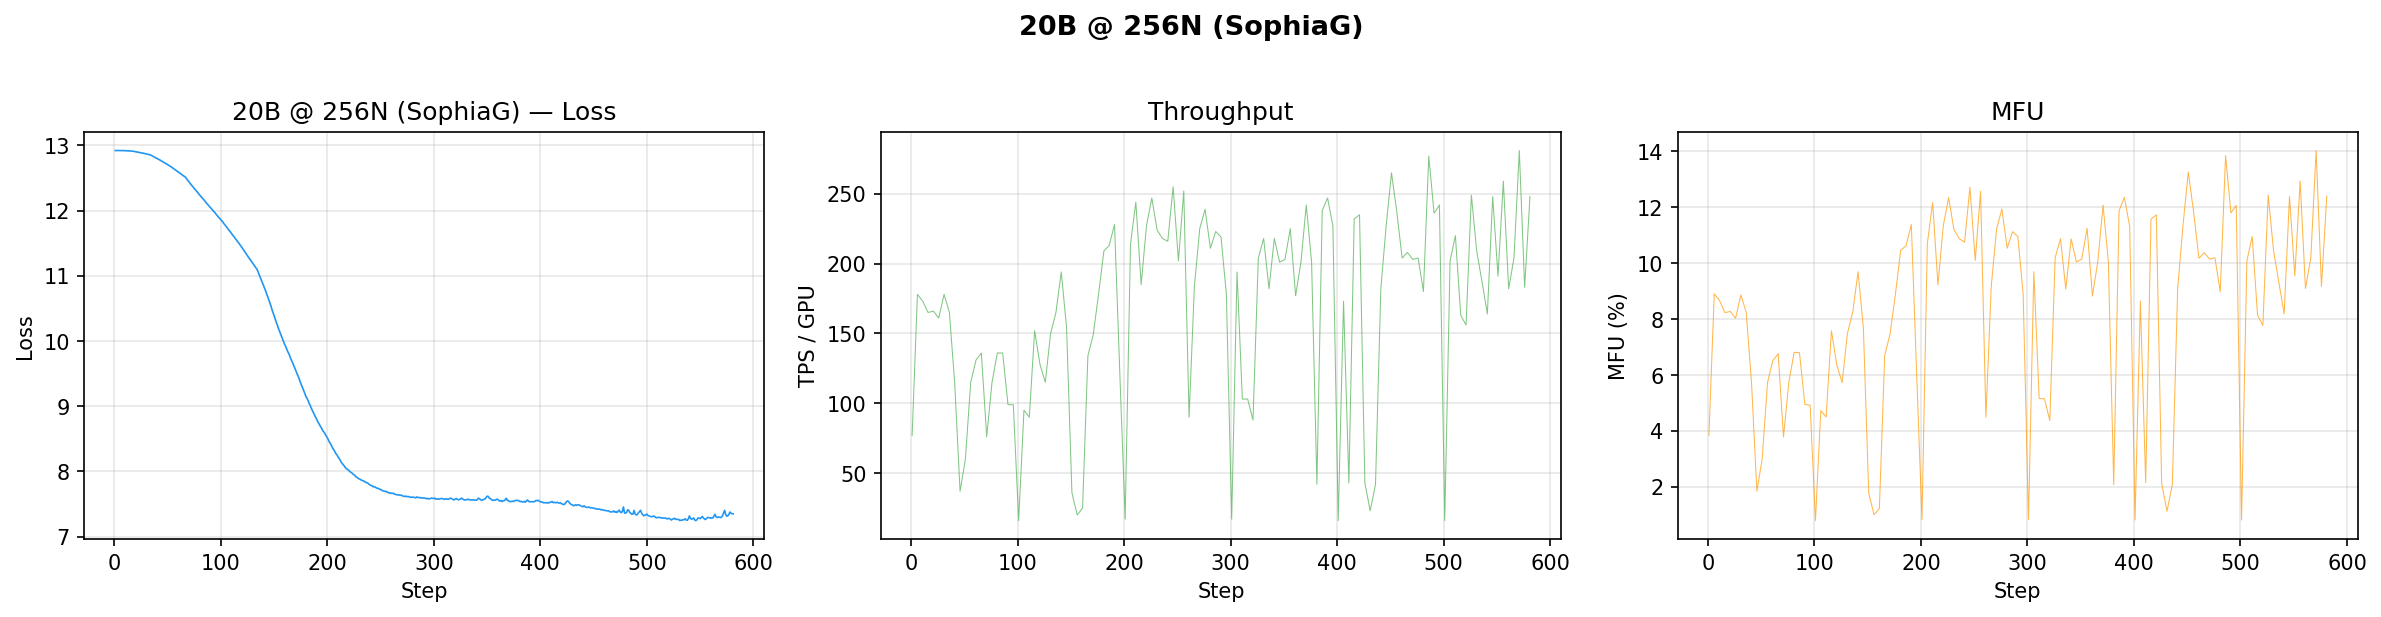
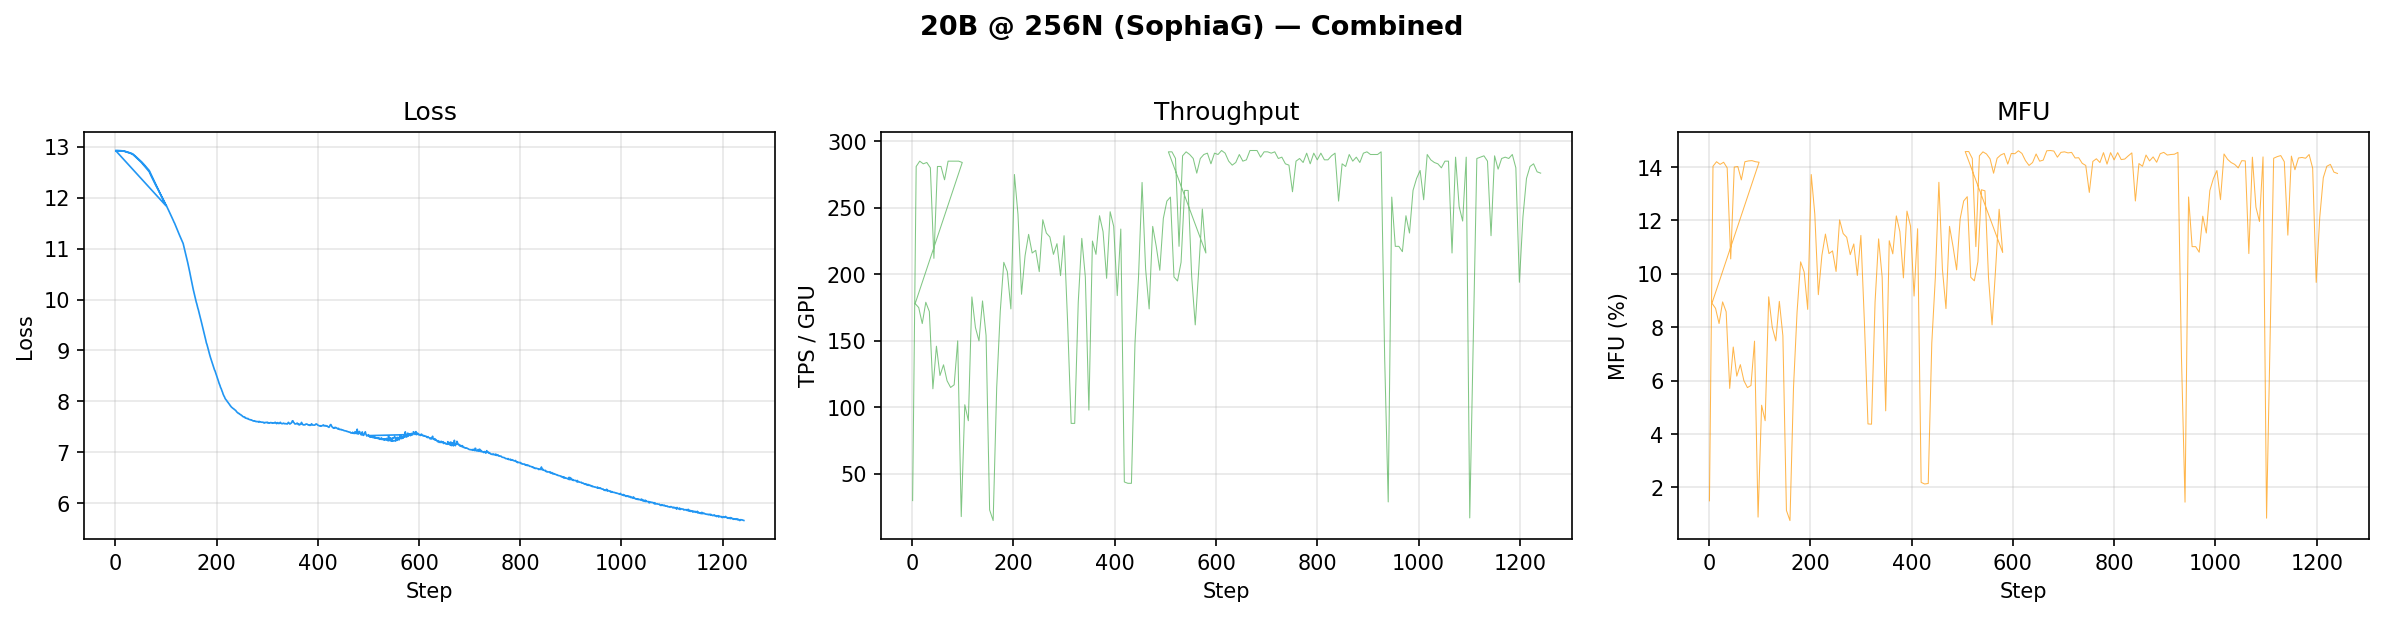
docs(ezpz): update production training status (2026-04-25)
- 2B@256N: 7000+ steps, loss 5.80, running well
- 20B@256N: 1239+ steps, loss 5.67, running well
- 80B@256N: NaN at step 138 (LR=1.1e-5 too high for GBS=1536)
- 80B@512N: NaN at step 15 (same LR issue, worse at GBS=3072)
- 512N jobs (2B, 20B) segfaulted on continuation, retries queued
- Updated plots with combined data across job chains
- Added 80B NaN issue to known issues — need LR finder at production GBS

diff --git a/torchtitan/experiments/ezpz/docs/production-training/agpt/20b/README.md b/torchtitan/experiments/ezpz/docs/production-training/agpt/20b/README.md
@@ -23,16 +23,16 @@
 | Job ID | Steps | Loss (start → end) | TPS/GPU | MFU | Memory | Status |
 |--------|-------|---------------------|---------|-----|--------|--------|
 | 8443212 | 1–100 | 12.93 → 11.84 | 280 | 14.0% | 40.95 GiB | Killed (qdel) |
-| 8444123 | 100–581 | 11.84 → 7.35 | 248 | 12.4% | 43.95 GiB | Walltime (12h) |
-| 8446340 | 581→ | — | — | — | — | Queued |
-| 8446341 | cont. | — | — | — | — | Queued (dep) |
-| 8446342 | cont. | — | — | — | — | Queued (dep) |
+| 8444123 | 100–581 | 11.84 → 7.35 | 248 | 12.4% | 43.95 GiB | Complete (walltime) |
+| 8446340 | 501–1239+ | 7.33 → 5.67 | 274 | 13.7% | — | **Running** (7h53m) |
+| 8446341 | cont. | — | — | — | — | Held (dep) |
+| 8446342 | cont. | — | — | — | — | Held (dep) |
 
-**W&B:** [q9oq5huj](https://wandb.ai/aurora_gpt/torchtitan.ezpz.train/runs/q9oq5huj) (job 8443212), [pnkaurba](https://wandb.ai/aurora_gpt/torchtitan.ezpz.train/runs/pnkaurba) (job 8444123)
+**W&B:** [q9oq5huj](https://wandb.ai/aurora_gpt/torchtitan.ezpz.train/runs/q9oq5huj) (job 8443212), [pnkaurba](https://wandb.ai/aurora_gpt/torchtitan.ezpz.train/runs/pnkaurba) (job 8444123), [lrlv3xsc](https://wandb.ai/aurora_gpt/torchtitan.ezpz.train/runs/lrlv3xsc) (job 8446340)
 
-**Latest checkpoint:** step-500
+**Latest checkpoint:** step-1200
 
-**Tokens consumed:** 581 × 3072 × 8192 = **14.6B tokens** (0.3% of target)
+**Tokens consumed:** 1239 × 3072 × 8192 = **31.2B tokens** (0.7% of target)
 
 ---
 
@@ -58,9 +58,9 @@
 
 | Job ID | Steps | Loss (start → end) | TPS/GPU | MFU | Memory | Status |
 |--------|-------|---------------------|---------|-----|--------|--------|
-| 8443819 | 1–458 | 12.94 → 7.09 | 41 | 2.1% | 54.14 GiB | Walltime (12h) |
-| 8446343 | 458→ | — | — | — | — | Queued |
-| 8446344 | cont. | — | — | — | — | Queued (dep) |
+| 8443819 | 1–458 | 12.94 → 7.09 | 41 | 2.1% | 54.14 GiB | Complete (walltime) |
+| 8446343 | 0 | — | — | — | — | Segfault (signal 11) |
+| 8446344 | — | — | — | — | — | Queued |
 
 **W&B:** [8of5hse0](https://wandb.ai/aurora_gpt/torchtitan.ezpz.train/runs/8of5hse0)
 
@@ -68,9 +68,8 @@
 
 **Tokens consumed:** 458 × 6144 × 8192 = **23.1B tokens** (0.5% of target)
 
-**Note:** Very low TPS (41) — likely compile took most of the 12h walltime,
-leaving limited time for actual training. The 20B model at 512N may need
-compile=off for production viability.
+**Note:** Very low TPS (41) — compile took most of the 12h walltime.
+512N continuation (8446343) segfaulted on a bad node. 8446344 will retry.
 
 ### Job Chains
 

diff --git a/torchtitan/experiments/ezpz/docs/production-training/README.md b/torchtitan/experiments/ezpz/docs/production-training/README.md
@@ -2,7 +2,7 @@
 
 > **Living document** — updated as jobs complete and new runs are submitted.
 >
-> Last updated: 2026-04-23
+> Last updated: 2026-04-25
 
 ## Scaling Performance
 
@@ -26,12 +26,12 @@ Full-scale production training of AuroraGPT models on the
 
 | Run | Model | Nodes | Optimizer | LR | Compile | Steps Done | Loss | Status |
 |-----|-------|-------|-----------|------|---------|------------|------|--------|
-| [2B-256N](agpt/2b/) | 2B | 256 | SophiaG | 2.28e-5 | on | 1431 | 6.13 | Continuing |
-| [2B-512N](agpt/2b/) | 2B | 512 | SophiaG | 2.28e-5 | off | 0 | — | Resubmit queued |
-| [20B-256N](agpt/20b/) | 20B | 256 | SophiaG | 2.28e-5 | on | 581 | 7.35 | Continuing |
-| [20B-512N](agpt/20b/) | 20B | 512 | SophiaG | 2.28e-5 | on | 458 | 7.09 | Continuing |
-| [80B-256N](agpt/80b/) | 80B | 256 | AdamW | 1.1e-5 | on | 0 | — | Retry queued |
-| [80B-512N](agpt/80b/) | 80B | 512 | AdamW | 1.1e-5 | off | 0 | — | Resubmit queued |
+| [2B-256N](agpt/2b/) | 2B | 256 | SophiaG | 2.28e-5 | on | 7000+ | 5.80 | **Running** |
+| [2B-512N](agpt/2b/) | 2B | 512 | SophiaG | 2.28e-5 | off | 0 | — | Segfault, retry queued |
+| [20B-256N](agpt/20b/) | 20B | 256 | SophiaG | 2.28e-5 | on | 1239+ | 5.67 | **Running** |
+| [20B-512N](agpt/20b/) | 20B | 512 | SophiaG | 2.28e-5 | on | 458 | 7.09 | Segfault, retry queued |
+| [80B-256N](agpt/80b/) | 80B | 256 | AdamW | 1.1e-5 | on | 429+ | NaN | **Running** (NaN@138) |
+| [80B-512N](agpt/80b/) | 80B | 512 | AdamW | 1.1e-5 | off | 320+ | NaN | **Running** (NaN@15) |
 
 ### MoE
 
@@ -44,8 +44,13 @@ Full-scale production training of AuroraGPT models on the
 1. **torch.compile OOM at 512N** — 2B OOMs on GPU, 80B OOMs on CPU. Use
    `--compile.no-enable` for 512N jobs.
 2. **SophiaG/Muon broken at 80B** — bf16 overflow in Hessian/Newton-Schulz.
-   Use AdamW with LR=1.1e-5.
-3. **Transient segfaults** — single bad nodes crash the whole job. Retry
-   usually works.
-4. **Compile time at 256N** — ~7-15 min depending on model size. Eats into
+   Use AdamW only.
+3. **80B AdamW LR=1.1e-5 → NaN** — loss diverges at step 138 (256N) and
+   step 15 (512N). LR from LR finder (2-node, GBS=12) may be too high for
+   production GBS (1536-3072). Need to re-run LR finder at production GBS
+   or reduce LR to ~1e-6.
+4. **Transient segfaults** — single bad nodes crash the whole job. Retry
+   usually works. Both 512N jobs (2B and 20B) segfaulted on their first
+   continuation attempt.
+5. **Compile time at 256N** — ~7-15 min depending on model size. Eats into
    the 12h walltime.

diff --git a/torchtitan/experiments/ezpz/docs/production-training/agpt/80b/README.md b/torchtitan/experiments/ezpz/docs/production-training/agpt/80b/README.md
@@ -16,18 +16,21 @@
 
 ### Progress
 
-| Job ID | Steps | Loss | TPS/GPU | MFU | Memory | Status |
-|--------|-------|------|---------|-----|--------|--------|
+| Job ID | Steps | Loss (start → end) | TPS/GPU | MFU | Memory | Status |
+|--------|-------|---------------------|---------|-----|--------|--------|
 | 8444124 | 0 | — | — | — | — | Segfault (node) |
-| 8446345 | 0→ | — | — | — | — | Queued (retry) |
-| 8446346 | cont. | — | — | — | — | Queued (dep) |
+| 8446345 | 1–429+ | 12.94 → NaN (step 138) | 87 | 16.0% | 52.94 GiB | **Running** (7h, NaN) |
+| 8446346 | cont. | — | — | — | — | Held (dep) |
 
-**Expected:** 80 TPS/GPU, 15% MFU (from 256N test runs).
-Compile takes ~7 min at 256N.
+**W&B:** [47pxgzf3](https://wandb.ai/aurora_gpt/torchtitan.ezpz.train/runs/47pxgzf3)
 
-**Note:** Previous attempt (8444124) segfaulted on a single bad node.
-AdamW is the only viable optimizer for 80B — SophiaG and Muon both
-produce NaN due to bf16 overflow at dim=9216.
+**Issue:** Loss went NaN at step 138. Loss was 12.00 → NaN. The model
+trained for 137 steps with good loss convergence (12.94 → 12.00) and
+87 TPS / 16% MFU before diverging. LR=1.1e-5 may still be too high
+for 80B at GBS=1536. Consider reducing to 5e-6 or 1e-6.
+
+**Note:** AdamW is the only viable optimizer for 80B — SophiaG and Muon
+both produce NaN due to bf16 overflow at dim=9216.
 
 ---
 
@@ -47,13 +50,17 @@ produce NaN due to bf16 overflow at dim=9216.
 
 ### Progress
 
-| Job ID | Steps | Loss | TPS/GPU | MFU | Memory | Status |
-|--------|-------|------|---------|-----|--------|--------|
+| Job ID | Steps | Loss (start → end) | TPS/GPU | MFU | Memory | Status |
+|--------|-------|---------------------|---------|-----|--------|--------|
 | 8443820 | 0 | — | — | — | — | CPU OOM (compile) |
-| 8446347 | 0→ | — | — | — | — | Queued (no-compile) |
-| 8446348 | cont. | — | — | — | — | Queued (dep) |
+| 8446347 | — | — | — | — | — | Queued |
+| 8446348 | 1–320+ | 12.94 → NaN (step 15) | 62 | 11.3% | 56.33 GiB | **Running** (7h53m, NaN) |
 
-**Expected:** 66 TPS/GPU, 12% MFU without compile (from 512N test).
+**W&B:** [mbszs7ij](https://wandb.ai/aurora_gpt/torchtitan.ezpz.train/runs/mbszs7ij)
+
+**Issue:** Loss went NaN at step 15. Only 14 steps converged before
+diverging. Same LR issue as 256N but worse — higher GBS (3072) makes
+the effective learning rate even more aggressive.
 
 ### Job Chains
 

diff --git a/torchtitan/experiments/ezpz/docs/production-training/agpt/2b/README.md b/torchtitan/experiments/ezpz/docs/production-training/agpt/2b/README.md
@@ -24,18 +24,16 @@
 
 | Job ID | Steps | Loss (start → end) | TPS/GPU | MFU | Memory | Status |
 |--------|-------|---------------------|---------|-----|--------|--------|
-| 8444122 | 1–1431 | 12.94 → 6.13 | 489 | 1.8% | 47.12 GiB | Walltime (12h) |
-| 8446337 | 1431→ | — | — | — | — | Queued |
-| 8446338 | cont. | — | — | — | — | Queued (dep) |
-| 8446339 | cont. | — | — | — | — | Queued (dep) |
+| 8444122 | 1–1431 | 12.94 → 6.13 | 489 | 1.8% | 47.12 GiB | Complete (walltime) |
+| 8446337 | 1401–7000+ | 6.13 → 5.80 | 2,051 | 7.7% | — | **Running** (7h53m) |
+| 8446338 | cont. | — | — | — | — | Held (dep) |
+| 8446339 | cont. | — | — | — | — | Held (dep) |
 
-**W&B:** [pjanidnw](https://wandb.ai/aurora_gpt/torchtitan.ezpz.train/runs/pjanidnw)
+**W&B:** [pjanidnw](https://wandb.ai/aurora_gpt/torchtitan.ezpz.train/runs/pjanidnw) (job 8444122), [4u9w23p9](https://wandb.ai/aurora_gpt/torchtitan.ezpz.train/runs/4u9w23p9) (job 8446337)
 
-**Tokens consumed:** 1431 × 3072 × 8192 = **36.0B tokens** (0.8% of target)
+**Latest checkpoint:** step-7000
 
-**Note:** Low MFU (1.8%) is because the 2B model is too small for 3072-way
-FSDP — communication dominates. TPS/GPU (489) is much lower than the 2N
-baseline (5400). This is expected from the scaling study results.
+**Tokens consumed:** 7000 × 3072 × 8192 = **176.2B tokens** (3.8% of target)
 
 ---
 
@@ -58,8 +56,8 @@ baseline (5400). This is expected from the scaling study results.
 | Job ID | Steps | Loss | TPS/GPU | MFU | Memory | Status |
 |--------|-------|------|---------|-----|--------|--------|
 | 8443818 | 0 | — | — | — | — | OOM (compile) |
-| 8446349 | 0→ | — | — | — | — | Queued (no-compile) |
-| 8446350 | cont. | — | — | — | — | Queued (dep) |
+| 8446349 | 0 | — | — | — | — | Segfault (signal 11) |
+| 8446350 | — | — | — | — | — | Queued |
 
 ### Job Chains
 
